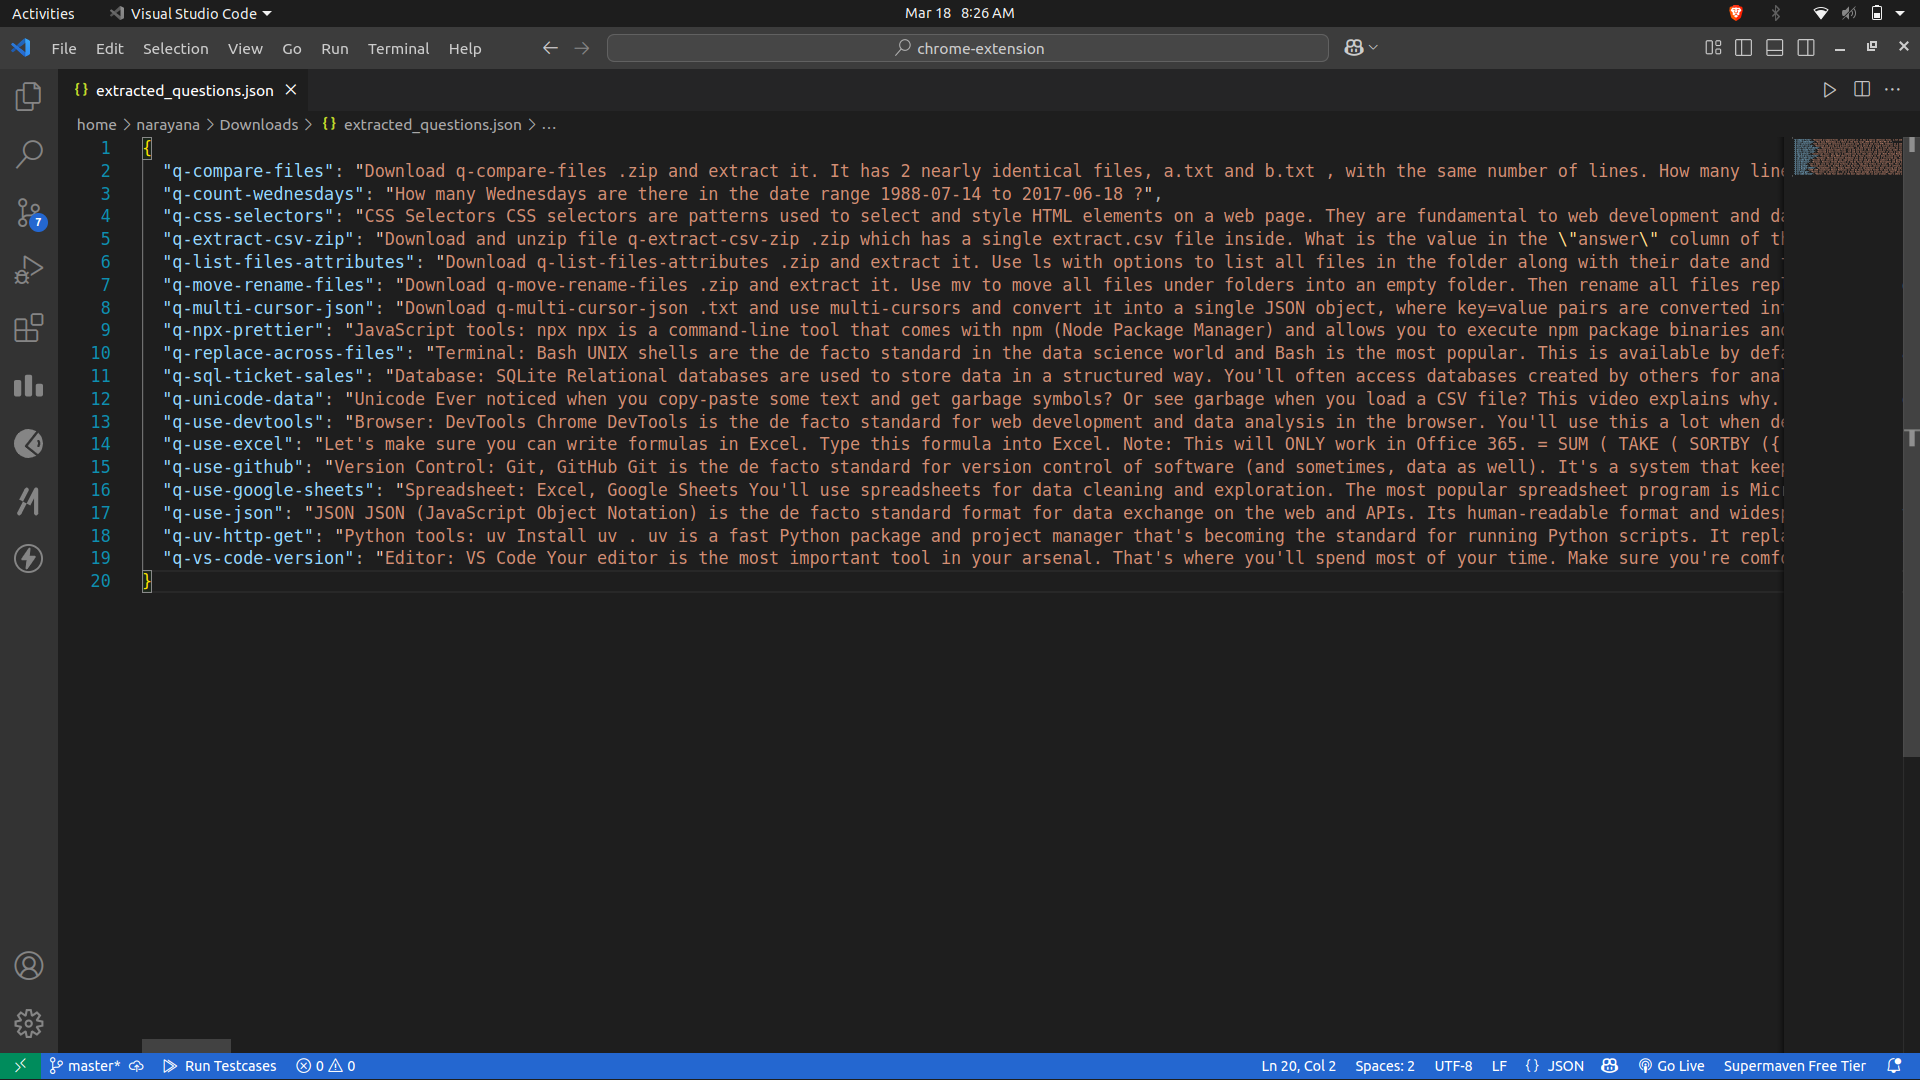
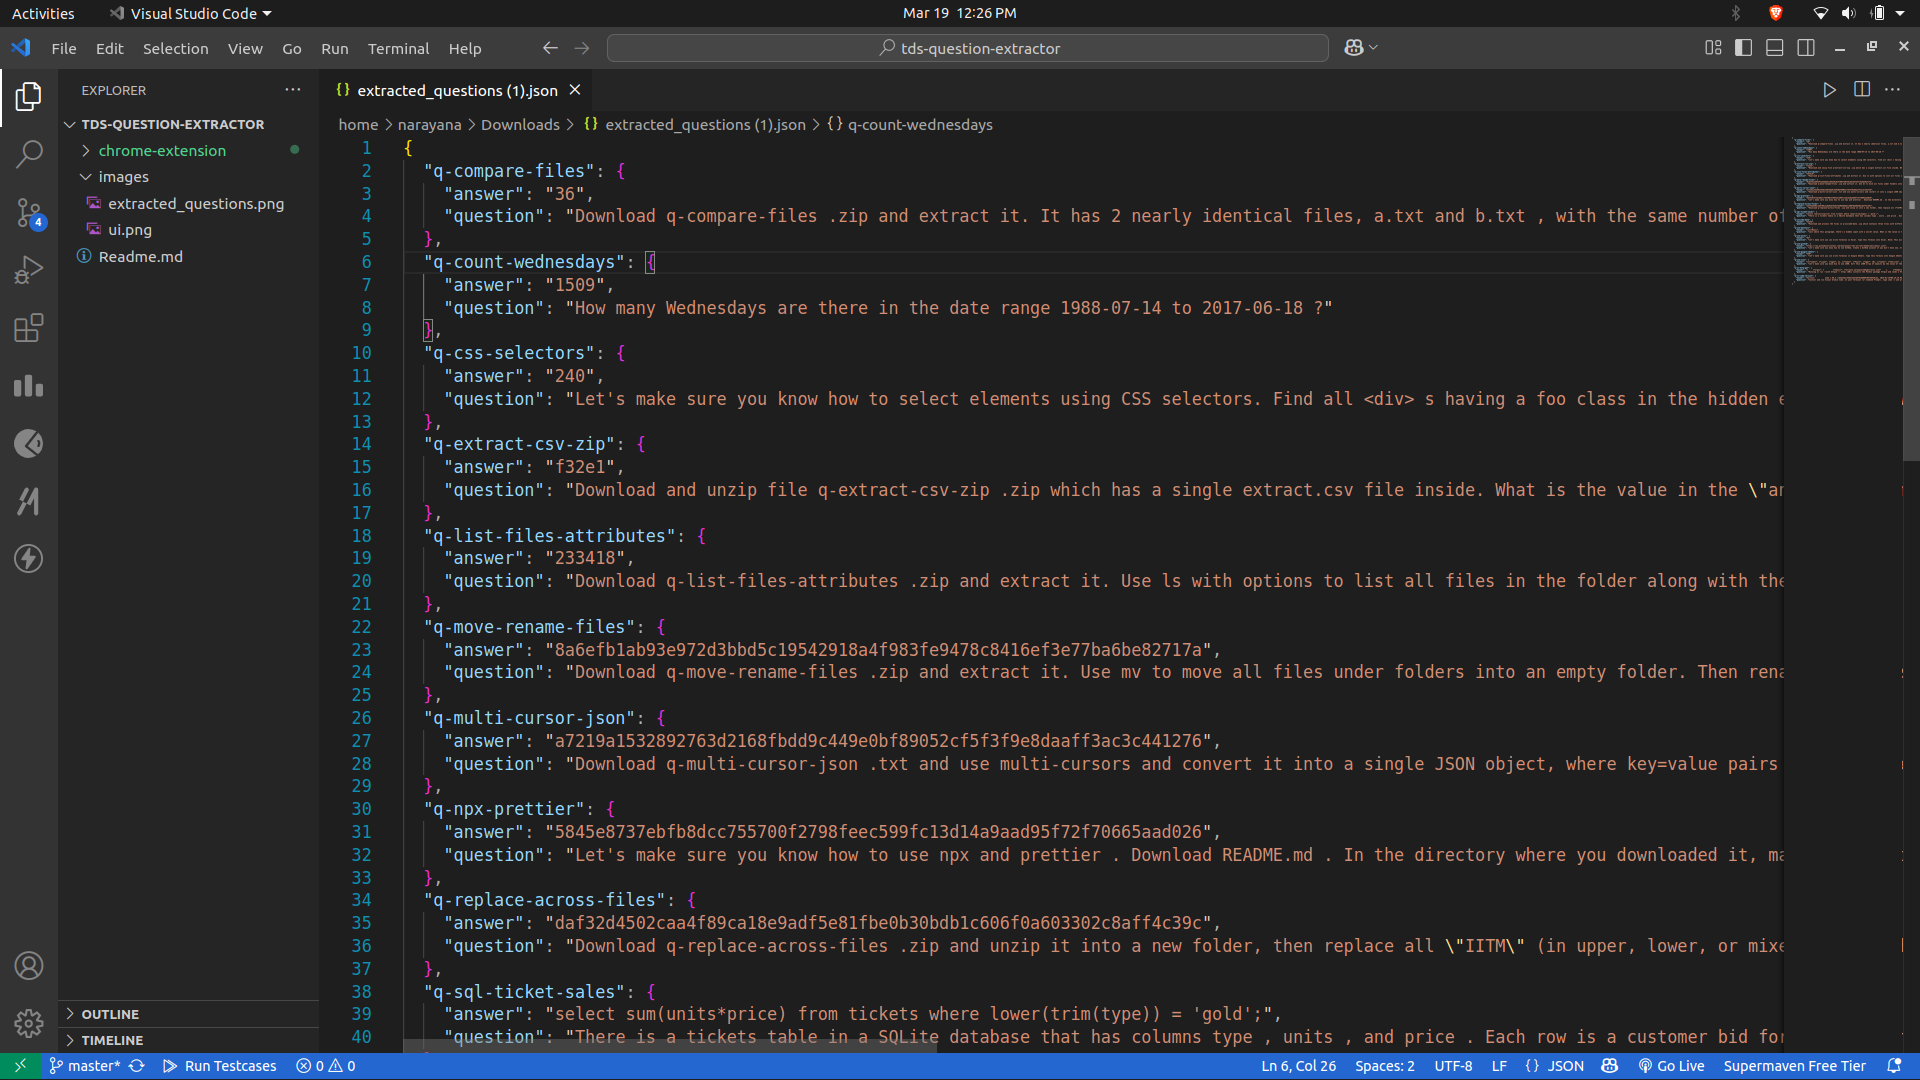
added support for extracting answers and fixed bug in question extraction.

diff --git a/chrome-extension/popup.js b/chrome-extension/popup.js
@@ -32,35 +32,37 @@ document.getElementById("downloadBtn").addEventListener("click", () => {
     document.body.removeChild(a);
 });
 
-// Function to extract text content recursively (No HTML tags)
-function getTextRecursively(element) {
-    let text = "";
-    element.childNodes.forEach(node => {
-        if (node.nodeType === Node.TEXT_NODE) {
-            text += node.textContent.trim() + " "; // Extract text
-        } else if (node.nodeType === Node.ELEMENT_NODE) {
-            text += getTextRecursively(node) + " "; // Recursive extraction
-        }
-    });
-    return text.replace(/\s+/g, " ").trim(); // Clean extra spaces
-}
-
-// Extract questions from the webpage
-function extractDataFromContent() {
+async function extractDataFromContent() {
     let questionCards = document.querySelectorAll("div.card.my-5[data-question]");
     let extractedData = {};
 
     questionCards.forEach(card => {
         let questionId = card.getAttribute("data-question");
         let cardBodies = card.querySelectorAll(".card-body");
+        let cardBody = cardBodies[cardBodies.length - 1];
 
-        let fullText = [];
-        for (let body of cardBodies) {
-            let textContent = extractTextRecursively(body); // Extract clean text
-            fullText.push(textContent);
+        if (cardBody) {
+            extractedData[questionId] = {
+                "question": extractTextRecursively(cardBody),
+                "answer": ""
+            };
         }
-        extractedData[questionId] = fullText.join("\n\n");
     });
+
+    try {
+        let answers = await getAnswers();
+        let qa = answers["data"][0]["result"]["answers"];
+        console.log("Received Answers:", qa);
+
+        Object.keys(qa).forEach(key => {
+            if (extractedData[key]) {
+                extractedData[key]["answer"] = qa[key];
+            }
+        });
+
+    } catch (error) {
+        console.error("Error fetching answers:", error);
+    }
 
     return extractedData;
 }

diff --git a/chrome-extension/getAnswers.js b/chrome-extension/getAnswers.js
@@ -1,0 +1,34 @@
+function getAnswers() {
+    return new Promise((resolve, reject) => {
+        // Extract email from the page
+        let emailElement = document.querySelector("#logged-in-email strong");
+        if (!emailElement) {
+            reject("Email element not found.");
+            return;
+        }
+        let email = emailElement.textContent.trim();
+
+        // Extract quiz ID from URL
+        let pathParts = window.location.pathname.split('/');
+        let quiz = pathParts[pathParts.length - 1]; // Get last part of the path
+
+        // Request cookies from the background script
+        chrome.runtime.sendMessage({ action: "getCookies" }, (response) => {
+            if (chrome.runtime.lastError) {
+                reject("Error fetching cookies: " + chrome.runtime.lastError.message);
+                return;
+            }
+
+            let cookieHeader = response.cookieHeader;
+            
+            // Fetch answers using cookies
+            fetch(`https://exam.sanand.workers.dev/filter?quiz=${quiz}&email=${email}&history=1&limit=1`, {
+                method: "GET",
+                headers: { "Cookie": cookieHeader }
+            })
+            .then(response => response.json())
+            .then(data => resolve(data))  // Return answers
+            .catch(error => reject(error));
+        });
+    });
+}

diff --git a/chrome-extension/background.js b/chrome-extension/background.js
@@ -1,0 +1,10 @@
+chrome.runtime.onMessage.addListener((request, sender, sendResponse) => {
+    if (request.action === "getCookies") {
+        chrome.cookies.getAll({ domain: "exam.sanand.workers.dev" }, (cookies) => {
+            let cookieHeader = cookies.map(cookie => `${cookie.name}=${cookie.value}`).join("; ");
+            sendResponse({ cookieHeader });
+        });
+
+        return true;  // Required for async response
+    }
+});
